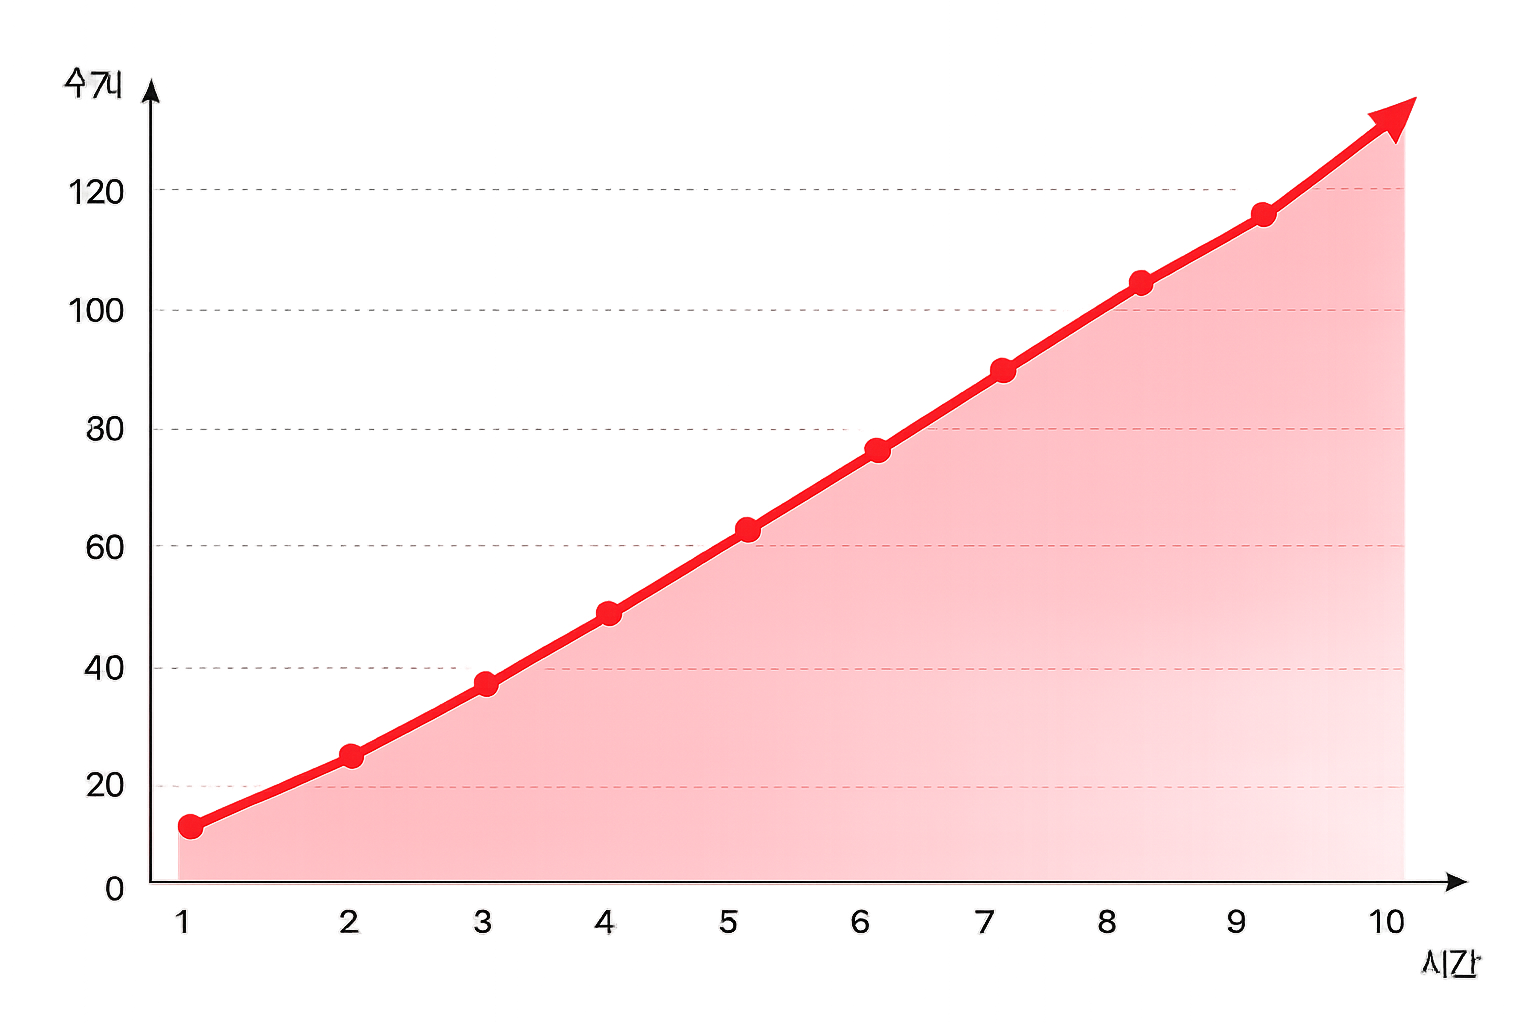
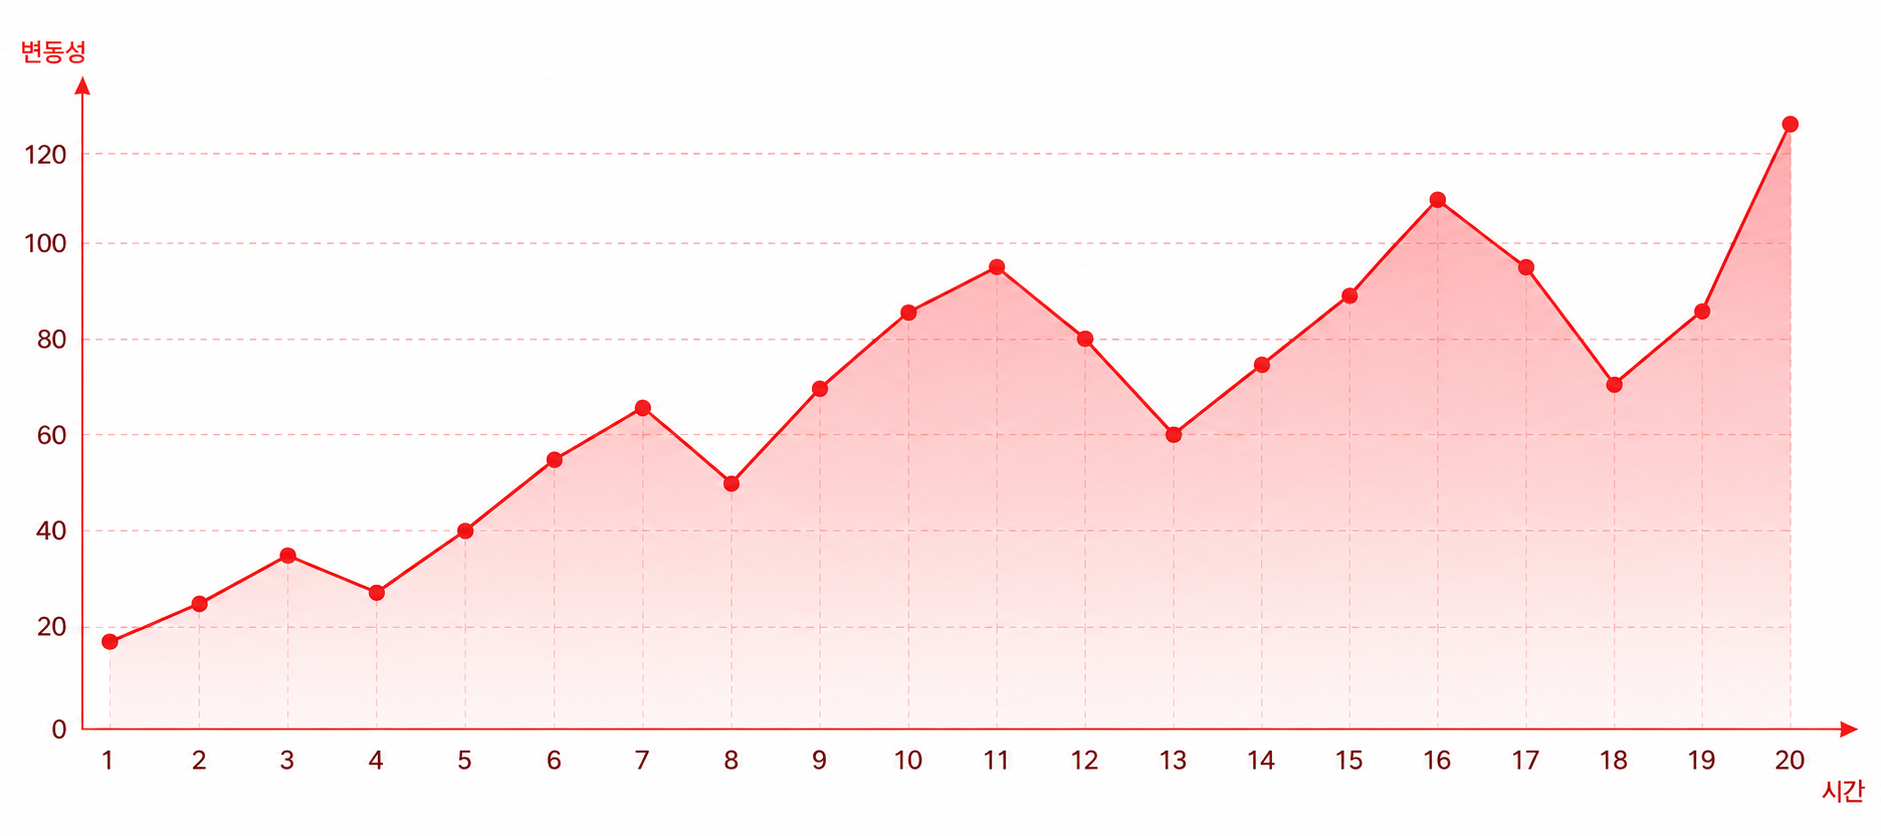
[#101] ui 개선

diff --git a/babasak/views/chatbot.py b/babasak/views/chatbot.py
@@ -68,10 +68,33 @@ def _unpack(item):
     return "assistant", str(item), None, None
 
 
+def _render_turn(role: str, message, chart_html, card, turn: int):
+    """한 대화 턴의 본문을 현재 열린 컨테이너 안에 그린다.
+    히스토리 재생(루프)과 방금 받은 응답을 그 자리에서 그릴 때 같은 로직을 쓰도록
+    분리한 함수. (호출부에서 with st.chat_message(role): 안에 둘 것)"""
+    if role == "assistant" and card and card.get("recipes"):
+        _render_cards(card, message, turn)
+    else:
+        st.write(message)
+    if chart_html:
+        components.html(chart_html, height=420, scrolling=False)
+
+
 def _queue_message(text: str):
-    """사용자 메시지를 히스토리에 넣고 '답변 대기' 플래그만 세운 뒤 rerun.
-    실제 백엔드 호출은 화면(헤더·채팅·패널)이 그려진 뒤 채팅 영역 안에서 수행한다.
-    입력창과 추천 질문 칩이 공유하는 진입점."""
+    """사용자 메시지를 히스토리에 넣고 '답변 대기' 플래그를 세운 뒤 즉시 rerun.
+    실제 백엔드 호출은 채팅 영역(_chat_fragment)이 그려진 뒤 그 안에서 수행한다.
+    입력창과 추천 질문 칩이 공유하는 진입점.
+
+    여기서 st.rerun()이 꼭 필요한 이유: pending(_pending_answer) 처리 지점은
+    _chat_fragment 위쪽(채팅 영역)에 있고, 이 함수를 호출하는 입력 위젯은 아래쪽에
+    있다. rerun 없이 위젯의 자동 rerun에만 맡기면, user 메시지를 append하기 전에 이미
+    위쪽 pending 처리를 지나친 뒤라 한 박자 늦게 반영되는 off-by-one이 생긴다.
+    즉시 rerun하면 처음부터 다시 그려져 user 메시지·응답이 같은 사이클에 처리된다.
+
+    이 함수는 항상 _chat_fragment(@st.fragment) 안에서 호출되므로, 이 st.rerun()은
+    전체 페이지가 아니라 fragment 범위만 부분 재실행한다 → 헤더·프로필은 그대로 두고
+    채팅 영역만 갱신되어 '페이지 리로드' 느낌이 없다.
+    (응답 후 2차 rerun도 제거한 상태 → 응답 시점의 재렌더 깜빡임은 없음.)"""
     text = (text or "").strip()
     if not text:
         return
@@ -79,7 +102,82 @@ def _queue_message(text: str):
         {"role": "user", "message": text, "chart_html": None, "card": None}
     )
     st.session_state["_pending_answer"] = text
-    st.rerun()
+    st.rerun(scope="fragment")
+
+
+@st.fragment
+def _chat_fragment():
+    """채팅 본문(좌: 대화/응답, 우: 추천칩·Tip)과 입력창을 묶은 부분 재실행 단위.
+    입력·칩 클릭으로 발생하는 rerun이 이 fragment 범위로 한정되어 전체 페이지가
+    다시 그려지지 않는다."""
+    # ── 본문: 좌(채팅) / 우(추천질문 + Tip) 2단 ──────────────────
+    # 우측 추천질문 패널을 넉넉히(2) 두어 칩 라벨이 한 줄에 들어가게 한다.
+    col_chat, col_side = st.columns([8, 2], gap="large")
+
+    with col_chat:
+        # 채팅 히스토리를 고정 높이 컨테이너로 감싼다 → 페이지 대신 이 박스만 스크롤된다.
+        # rerun마다 페이지 높이가 줄었다 늘며 스크롤이 위로 클램핑됐다 돌아오는
+        # '올라갔다 내려오는' 흔들림을, 페이지를 아예 안 움직이게 해서 원천 차단한다.
+        # (입력창·사이드패널·스크롤 스크립트는 이 박스 밖에 둔다.)
+        chat_box = st.container(height=460)
+        with chat_box:
+            for turn, item in enumerate(st.session_state.chat_history):
+                role, message, chart_html, card = _unpack(item)
+                with st.chat_message(role):
+                    _render_turn(role, message, chart_html, card, turn)
+
+            # 대기 중인 질문이 있으면 채팅 영역 안에서 로딩 스피너만 띄우고 응답을 받는다.
+            # 응답은 '그 자리'에서 그리지 않는다: 그 자리 렌더 + 위쪽 히스토리 루프가 같은
+            # 답변을 이중으로 그려, fragment 부분 재실행 때 옛 요소가 안 지워지고 흐릿한
+            # 잔상(ghosting)으로 남는 문제가 있었다. 대신 히스토리에 append만 하고
+            # fragment를 부분 재실행하면, 답변은 오직 위쪽 루프 한 곳에서만 그려진다.
+            # scope="fragment"라 전체 페이지 리로드/깜빡임은 없다.
+            pending = st.session_state.pop("_pending_answer", None)
+            if pending:
+                with st.chat_message("assistant"):
+                    with st.spinner("챗봇이 답변을 생성 중입니다..."):
+                        bot_text, chart_html, bot_card = _fetch_response(pending)
+                st.session_state.chat_history.append(
+                    {"role": "assistant", "message": bot_text,
+                     "chart_html": chart_html, "card": bot_card}
+                )
+                st.rerun(scope="fragment")
+
+            # 채팅 맨 아래 스크롤 기준점(앵커). rerun 직후 여기로 자동 스크롤한다.
+            st.markdown('<div id="chat-bottom-anchor"></div>', unsafe_allow_html=True)
+
+    with col_side:
+        _render_side_panel()
+
+    # 입력창 (placeholder 제거)
+    user_input = st.chat_input("")
+    if user_input:
+        _queue_message(user_input)
+
+    # 채팅 갱신 직후 최신 메시지로 자동 스크롤. fragment 안에 둬서 부분 재실행 때도
+    # 동작한다. scrollIntoView는 가장 가까운 스크롤 부모(=위 고정 높이 박스)를 스크롤하므로
+    # 페이지는 안 움직이고 박스 안에서만 내려간다. 2단 모션(auto 즉시점프 + 150ms smooth)을
+    # 빼고 requestAnimationFrame으로 렌더 완료 직후 한 번만 부드럽게 스크롤해 튕김을 없앤다.
+    # iframe에서 부모 문서 스크롤을 시도하되 막히면(보안정책) 조용히 무시.
+    if st.session_state.chat_history:
+        components.html(
+            """
+            <script>
+            (function () {
+                try {
+                    const doc = window.parent.document;
+                    const anchor = doc.getElementById("chat-bottom-anchor");
+                    if (anchor) {
+                        requestAnimationFrame(function () {
+                            anchor.scrollIntoView({behavior: "smooth", block: "end"});
+                        });
+                    }
+                } catch (e) { /* cross-origin 등으로 막히면 무시 */ }
+            })();
+            </script>
+            """,
+            height=0,
+        )
 
 
 def render():
@@ -112,72 +210,21 @@ def render():
     _render_profile()
     st.divider()
 
-    # ── 본문: 좌(채팅) / 우(추천질문 + Tip) 2단 ──────────────────
-    col_chat, col_side = st.columns([8, 2], gap="large")
-
-    with col_chat:
-        for turn, item in enumerate(st.session_state.chat_history):
-            role, message, chart_html, card = _unpack(item)
-            with st.chat_message(role):
-                if role == "assistant" and card and card.get("recipes"):
-                    _render_cards(card, message, turn)
-                else:
-                    st.write(message)
-                if chart_html:
-                    components.html(chart_html, height=420, scrolling=False)
-
-        # 대기 중인 질문이 있으면 채팅 영역 안에서 로딩 → 응답 받기
-        pending = st.session_state.pop("_pending_answer", None)
-        if pending:
-            with st.chat_message("assistant"):
-                with st.spinner("챗봇이 답변을 생성 중입니다..."):
-                    bot_text, chart_html, bot_card = _fetch_response(pending)
-            st.session_state.chat_history.append(
-                {"role": "assistant", "message": bot_text,
-                 "chart_html": chart_html, "card": bot_card}
-            )
-            st.rerun()
-
-        # 채팅 맨 아래 스크롤 기준점(앵커). rerun 직후 여기로 자동 스크롤한다.
-        st.markdown('<div id="chat-bottom-anchor"></div>', unsafe_allow_html=True)
-
-    with col_side:
-        _render_side_panel()
-
-    # 입력창 (placeholder 제거)
-    user_input = st.chat_input("")
-    if user_input:
-        _queue_message(user_input)
-
-    # rerun 후 화면이 맨 위로 튀는 것을 완화: 대화가 있으면 최신 메시지로 자동 스크롤.
-    # iframe에서 부모 문서 스크롤을 시도하되, 막히면(보안정책) 조용히 무시한다.
-    if st.session_state.chat_history:
-        components.html(
-            """
-            <script>
-            (function () {
-                try {
-                    const doc = window.parent.document;
-                    const anchor = doc.getElementById("chat-bottom-anchor");
-                    if (anchor) {
-                        // 렌더 직후 한 번 + 약간 늦게 한 번(레이아웃 안정화 후) 스크롤
-                        anchor.scrollIntoView({behavior: "auto", block: "end"});
-                        setTimeout(function () {
-                            anchor.scrollIntoView({behavior: "smooth", block: "end"});
-                        }, 150);
-                    }
-                } catch (e) { /* cross-origin 등으로 막히면 무시 */ }
-            })();
-            </script>
-            """,
-            height=0,
-        )
+    # ── 본문(채팅+입력+추천칩)을 fragment로 감싼다 ───────────────
+    # st.fragment 안에서 일어나는 st.rerun()은 '전체 페이지'가 아니라 이 함수 범위만
+    # 부분 재실행한다. 따라서 질문을 보낼 때(_queue_message의 rerun)도 헤더·프로필은
+    # 그대로 두고 채팅 영역만 다시 그려져 '페이지 리로드' 느낌이 사라진다.
+    # 추천칩(col_side)도 클릭 시 같은 부분 재실행이 되도록 컬럼 전체를 fragment에 넣는다.
+    # 채팅·입력·추천칩·스크롤 보정은 모두 _chat_fragment 안에서 처리한다.
+    _chat_fragment()
 
 
 def _render_side_panel():
     """우측 패널: 추천 질문 칩 + 챗봇 답변 활용 Tip."""
     st.markdown('<div class="cb-panel-title">✦ 추천 질문</div>', unsafe_allow_html=True)
     st.markdown('<div class="cb-panel-sub">이런 걸 물어보세요</div>', unsafe_allow_html=True)
+    # 칩 버튼만 겨냥하는 CSS(.cb-suggest + div ...)가 잡도록 직전에 마커를 둔다.
+    st.markdown('<div class="cb-suggest"></div>', unsafe_allow_html=True)
     for i, (label, question) in enumerate(_SUGGESTED_QUESTIONS):
         if st.button(f"[{label}]  {question}", key=f"suggest_{i}", use_container_width=True):
             _queue_message(question)
@@ -200,9 +247,20 @@ def _render_side_panel():
 def _inject_card_css():
     st.markdown("""
     <style>
-      /* 챗봇 화면에서는 본문 폭 제한을 넓혀 채팅 영역을 더 넓게 쓴다
-         (app.py 전역 max-width:1500px 를 이 페이지에 한해 확장) */
-      .block-container { max-width: 1800px !important; }
+      /* 챗봇 화면 전체를 '줌아웃'한 느낌으로 압축해 한 화면에 더 많은 내용이 담기게 한다.
+         루트 폰트(rem 기준)를 줄이면 rem 기반 요소들이 일괄로 작아진다. */
+      html { font-size: 14px; }              /* 기본 16px → 14px (약 87.5% 축소) */
+
+      /* 본문 폭은 넓게 유지(카드 3개 가로 배치). 상하 여백은 줄여 밀도를 높인다. */
+      .block-container {
+          max-width: 1800px !important;
+          padding-top: 1.2rem !important;
+          padding-bottom: 1.2rem !important;
+      }
+      /* 요소 사이 기본 간격(Streamlit 수직 갭) 약간만 축소. 너무 줄이면 입력 라벨이
+         위 박스에 붙어 답답하므로 숨 쉴 공간은 남긴다. */
+      div[data-testid="stVerticalBlock"] { gap: .85rem !important; }
+      hr { margin: .8rem 0 !important; }     /* st.divider 여백 축소 */
 
       /* 카드 3개를 한 줄에 가로로 나열하는 그리드 컨테이너 */
       .fc-grid { display:flex; flex-wrap:wrap; gap:14px; margin:6px 0 14px; align-items:flex-start; }
@@ -270,13 +328,21 @@ def _inject_card_css():
                       padding:8px 14px; font-size:.85rem; font-weight:700; color:#334155;
                       box-shadow:0 2px 8px rgba(15,23,42,.04); }
 
-      /* ── 우측 패널 ── */
-      .cb-panel-title { font-size:1rem; font-weight:900; color:#0f172a; margin-bottom:2px; }
-      .cb-panel-sub { font-size:.8rem; color:#94a3b8; margin-bottom:12px; }
-      .cb-tip { background:#fffbeb; border:1px solid #fde68a; border-radius:16px;
-                padding:16px 18px; }
-      .cb-tip-title { font-size:.9rem; font-weight:800; color:#92400e; margin-bottom:8px; }
-      .cb-tip-item { font-size:.85rem; color:#78350f; line-height:1.6; }
+      /* ── 우측 패널 ── (좁은 폭에 맞춰 제목·부제목·칩 전반 축소) */
+      .cb-panel-title { font-size:.9rem; font-weight:900; color:#0f172a; margin-bottom:2px; }
+      .cb-panel-sub { font-size:.72rem; color:#94a3b8; margin-bottom:10px; }
+      /* 추천 질문 칩(st.button): cb-suggest 래퍼 다음에 오는 Streamlit 버튼만 스타일.
+         라벨이 2줄로 접혀도 답답하지 않도록 세로 패딩·줄간격을 넉넉히 준다. */
+      .cb-suggest + div [data-testid="stButton"] > button {
+          font-size:.76rem; font-weight:700; line-height:1.4;
+          padding:10px 12px; min-height:0; text-align:left;
+          white-space:nowrap; border-radius:12px; }
+      /* 칩 사이 간격 약간 확보 */
+      .cb-suggest + div [data-testid="stButton"] { margin-bottom:7px; }
+      .cb-tip { background:#fffbeb; border:1px solid #fde68a; border-radius:14px;
+                padding:12px 13px; }
+      .cb-tip-title { font-size:.8rem; font-weight:800; color:#92400e; margin-bottom:6px; }
+      .cb-tip-item { font-size:.74rem; color:#78350f; line-height:1.55; }
     </style>
     """, unsafe_allow_html=True)
 
